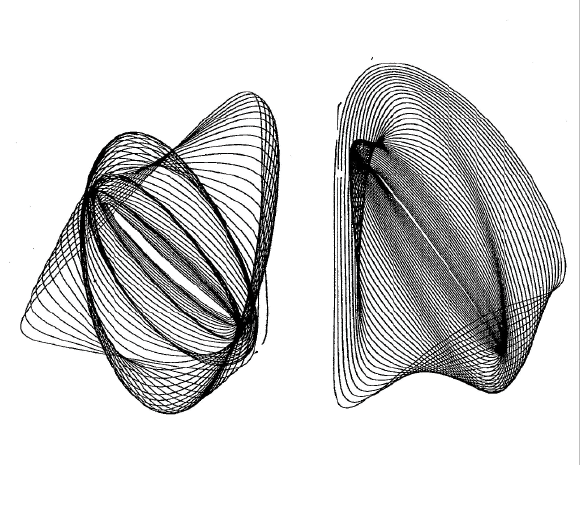
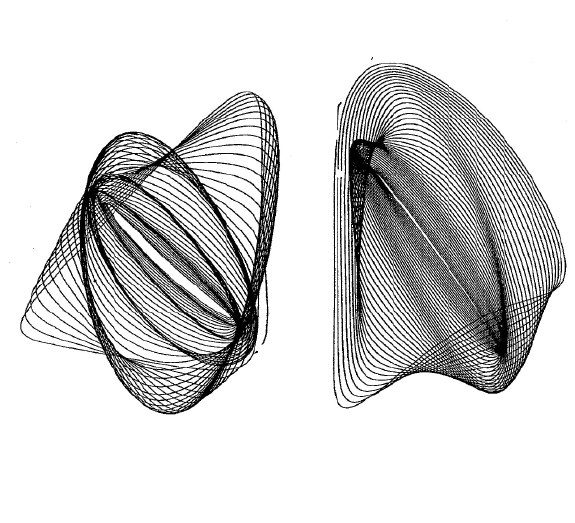
Tune modal and blob interactions

Changed region(s): [[0.5617, 0.1224, 1.0, 0.7954], [0.0296, 0.153, 0.5026, 0.7954]]

diff --git a/index.html b/index.html
@@ -3,7 +3,7 @@
     <head>
         <meta charset="UTF-8" />
         <title>Mania Monet</title>
-        <link rel="stylesheet" href="styles.css?v=4" />
+        <link rel="stylesheet" href="styles.css?v=6" />
     </head>
     <body>
         <main class="layout">
@@ -93,9 +93,7 @@
 
             <section class="detail"></section>
             <div class="modal" id="modal" hidden>
-                <button class="modal-close" id="modal-close" aria-label="Close">
-                    ×
-                </button>
+                <button class="modal-close" id="modal-close" aria-label="Close">x</button>
                 <div class="modal-content"></div>
             </div>
         </main>
@@ -172,6 +170,21 @@
             if (!isDebug) {
                 document.querySelector(".size-bar").style.display = "none";
             }
+            window.debugPositions = function () {
+                const rect = (el) => {
+                    const r = el.getBoundingClientRect();
+                    return { left: r.left.toFixed(1), right: r.right.toFixed(1), width: r.width.toFixed(1) };
+                };
+                const layout = document.querySelector(".layout");
+                const modal = document.getElementById("modal");
+                const handles = document.querySelectorAll(".handle");
+                console.log("layout:", rect(layout));
+                console.log("modal:", modal.hidden ? "(hidden)" : rect(modal));
+                handles.forEach((h, i) =>
+                    console.log(`handle[${h.dataset.h}]:`, rect(h))
+                );
+            };
+            setTimeout(() => window.debugPositions(), 200);
             const PLACEHOLDERS = [
                 "assets/placeholder1.jpg",
                 "assets/placeholder2.png",
@@ -267,30 +280,88 @@
             const modalEl = document.getElementById("modal");
             const modalContentEl = modalEl.querySelector(".modal-content");
             const modalCloseBtn = document.getElementById("modal-close");
+            const MODAL_BORDER_INSET = 4;
+            function visibleHandleX(handle) {
+                const r = handle.getBoundingClientRect();
+                return r.left + r.width / 2;
+            }
+            function updateModalPosition() {
+                const h1 = document.querySelector('.handle[data-h="1"]');
+                const h3 = document.querySelector('.handle[data-h="3"]');
+                if (!h1 || !h3) return;
+                const layoutRect = layout.getBoundingClientRect();
+                const left =
+                    visibleHandleX(h1) - layoutRect.left + MODAL_BORDER_INSET;
+                const right =
+                    visibleHandleX(h3) - layoutRect.left - MODAL_BORDER_INSET;
+                modalEl.style.setProperty("--modal-left", `${left.toFixed(2)}px`);
+                modalEl.style.setProperty(
+                    "--modal-width",
+                    `${Math.max(0, right - left).toFixed(2)}px`,
+                );
+            }
+            function updateModalScrollSpace() {
+                if (modalEl.hidden) {
+                    layout.style.minHeight = "";
+                    return;
+                }
+                const viewportSpace =
+                    window.innerHeight - layout.getBoundingClientRect().top;
+                layout.style.minHeight = `${Math.max(
+                    viewportSpace,
+                    modalEl.offsetHeight,
+                )}px`;
+            }
+            function watchModalImageLoads() {
+                modalContentEl.querySelectorAll("img").forEach((img) => {
+                    if (img.complete) return;
+                    img.addEventListener("load", updateModalScrollSpace, {
+                        once: true,
+                    });
+                    img.addEventListener("error", updateModalScrollSpace, {
+                        once: true,
+                    });
+                });
+            }
+            function nextFrame() {
+                return new Promise((resolve) => requestAnimationFrame(resolve));
+            }
             async function openModal(id) {
                 if (!id) return;
                 try {
+                    modalContentEl.style.opacity = "0";
                     const res = await fetch(
                         `pages/${encodeURIComponent(id)}.html`,
                     );
                     if (!res.ok) throw new Error(`HTTP ${res.status}`);
                     const html = await res.text();
                     modalContentEl.innerHTML = html;
+                    watchModalImageLoads();
+                    updateModalPosition();
                     modalEl.hidden = false;
-                    modalEl.scrollTop = 0;
+                    await nextFrame();
+                    await nextFrame();
+                    updateModalScrollSpace();
+                    modalContentEl.style.opacity = "1";
                 } catch (e) {
+                    modalContentEl.style.opacity = "1";
                     console.error("[mania] failed to load page", id, e);
                 }
             }
             function closeModal() {
                 modalEl.hidden = true;
                 modalContentEl.innerHTML = "";
+                updateModalScrollSpace();
             }
             modalCloseBtn.addEventListener("click", closeModal);
             document.addEventListener("keydown", (e) => {
                 if (e.key === "Escape" && !modalEl.hidden) closeModal();
             });
             const layout = document.querySelector(".layout");
+            window.addEventListener("resize", () => {
+                updateModalPosition();
+                updateModalScrollSpace();
+            });
             const STORAGE_KEY = "mm.cols";
             try {
                 const saved = JSON.parse(
@@ -328,6 +399,7 @@
                 const dxPct = ((e.clientX - drag.startX) / drag.total) * 100;
                 const v = Math.min(70, Math.max(5, drag.startVal + dxPct));
                 layout.style.setProperty(colKey(drag.which), v);
+                updateModalPosition();
             });
             document.addEventListener("mouseup", () => {
                 if (!drag) return;
@@ -904,10 +976,8 @@
 
             if (pmode === "autoplay") startPlay();
             let dotsCollapsed = false;
-            function easeInOutCubic(t) {
-                return t < 0.5
-                    ? 4 * t * t * t
-                    : 1 - Math.pow(-2 * t + 2, 3) / 2;
+            function easeOutCubic(t) {
+                return 1 - Math.pow(1 - t, 3);
             }
             function collapseDots() {
                 if (dotsCollapsed) return;
@@ -926,17 +996,55 @@
                         curPx = trackWidth * 0.5;
                     }
                     const targetPx = -90 + Math.random() * 20;
-                    const duration = 300 + Math.random() * 100;
+                    const duration = 600 + Math.random() * 200;
                     const startTime = performance.now();
                     function tick(now) {
                         const elapsed = now - startTime;
                         const t = Math.min(1, elapsed / duration);
-                        const px = curPx + (targetPx - curPx) * easeInOutCubic(t);
+                        const eased = easeOutCubic(t);
+                        const px = curPx + (targetPx - curPx) * eased;
                         li.style.setProperty("--pos", `${px.toFixed(2)}px`);
                         if (t < 1) requestAnimationFrame(tick);
                     }
                     requestAnimationFrame(tick);
                 });
+            }
+            function fallClickedBlob(btn) {
+                const li = btn.closest("li");
+                const dot = li?.querySelector(".dot");
+                if (!li || !dot || li.dataset.fallen === "true") return;
+                li.dataset.fallen = "true";
+                const fallStr = li.style.getPropertyValue("--fall") || "";
+                const curFall = fallStr.endsWith("px")
+                    ? parseFloat(fallStr)
+                    : 0;
+                const dotRect = dot.getBoundingClientRect();
+                const dotBottom = dotRect.bottom + window.scrollY;
+                const pageBottom = Math.max(
+                    document.body.scrollHeight,
+                    document.documentElement.scrollHeight,
+                );
+                const targetFall = Math.max(0, pageBottom - dotBottom - 8);
+                let fall = curFall;
+                let velocity = -0.08 - Math.random() * 0.03;
+                const gravity = 0.00115;
+                const terminalVelocity = 1.15 + Math.random() * 0.15;
+                let lastTime = performance.now();
+                function tick(now) {
+                    const dt = Math.min(32, now - lastTime);
+                    lastTime = now;
+                    velocity = Math.min(
+                        terminalVelocity,
+                        velocity + gravity * dt,
+                    );
+                    fall += velocity * dt;
+                    if (fall >= targetFall) {
+                        fall = targetFall;
+                    }
+                    li.style.setProperty("--fall", `${fall.toFixed(2)}px`);
+                    if (fall < targetFall) requestAnimationFrame(tick);
+                }
+                requestAnimationFrame(tick);
             }
             document.querySelectorAll(".cat").forEach((btn) => {
                 btn.addEventListener("click", () => {
@@ -947,6 +1055,7 @@
                     const projects = data[btn.dataset.id];
                     if (projects) renderProjects(projects);
                     collapseDots();
+                    fallClickedBlob(btn);
                 });
             });
         </script>

diff --git a/styles.css b/styles.css
@@ -11,11 +11,14 @@ body {
     --c1: 22;
     --c2: 22;
     --c3: 22;
+    --grid-gap: 16px;
     display: grid;
     grid-template-columns:
         calc(var(--c1) * 1%) calc(var(--c2) * 1%) calc(var(--c3) * 1%)
         1fr;
-    gap: 16px;
+    grid-auto-rows: 40px;
+    gap: var(--grid-gap);
+    align-content: start;
     position: relative;
 }
 
@@ -72,7 +75,7 @@ body {
     position: absolute;
     bottom: 2px;
     left: var(--pos, 50%);
-    transform: translateX(-50%);
+    transform: translate(-50%, var(--fall, 0px));
     display: block;
     line-height: 0;
 }
@@ -142,11 +145,14 @@ body {
 }
 
 .handle[data-h="2"] {
-    left: calc((var(--c1) + var(--c2)) * 1% + 16px);
+    left: calc((var(--c1) + var(--c2)) * 1% + var(--grid-gap));
 }
 
 .handle[data-h="3"] {
-    left: calc((var(--c1) + var(--c2) + var(--c3)) * 1% + 32px);
+    left: calc(
+        (var(--c1) + var(--c2) + var(--c3)) * 1% + var(--grid-gap) +
+            var(--grid-gap)
+    );
 }
 
 .detail {
@@ -217,19 +223,22 @@ body {
 }
 
 .modal {
+    box-sizing: border-box;
     position: absolute;
     top: 0;
-    left: calc(var(--c1) * 1% + 16px);
-    width: calc((var(--c2) + var(--c3)) * 1% + 16px);
+    left: var(--modal-left, 0);
+    width: var(--modal-width, 0);
     background: #fff;
     padding: 32px;
     z-index: 50;
-    max-height: calc(100vh - 120px);
-    overflow: auto;
 }
 
 .modal[hidden] {
     display: none;
+}
+
+.modal-content {
+    opacity: 1;
 }
 
 .modal-close {
@@ -255,7 +264,9 @@ body {
 .modal-content img {
     display: block;
     max-width: 100%;
+    max-height: 280px;
     height: auto;
+    object-fit: contain;
     margin: 0 auto 16px;
 }
 